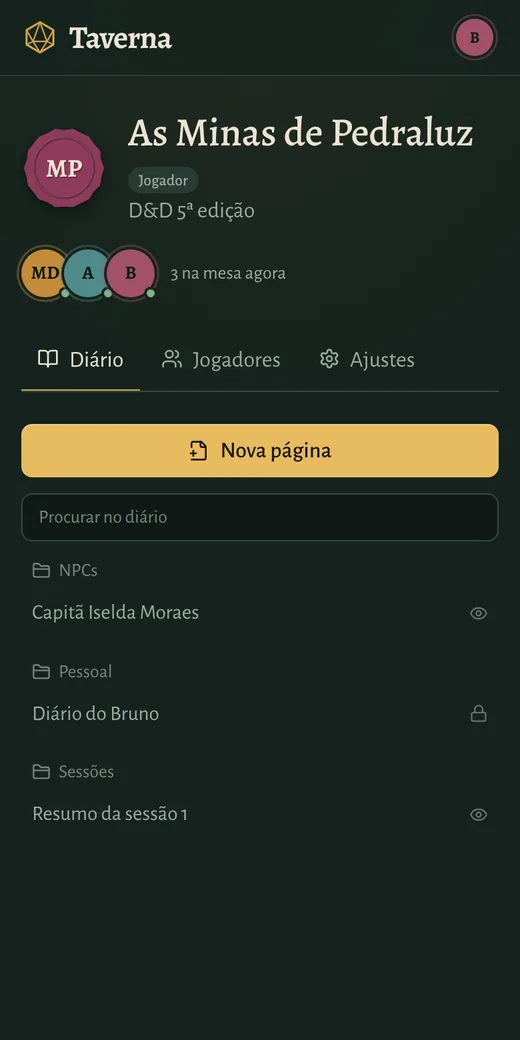
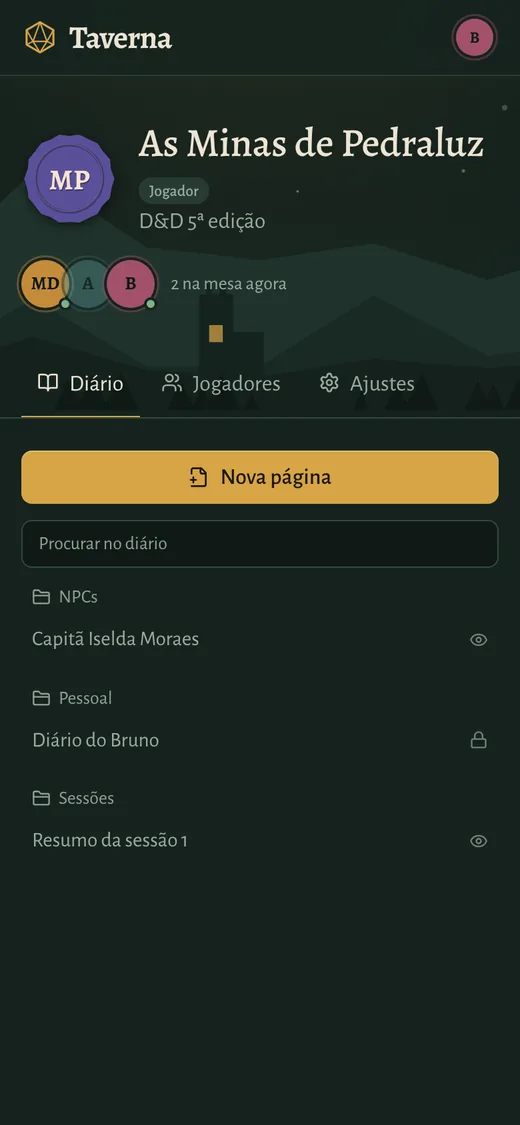
docs: secao de design e acessibilidade e novos prints

diff --git a/README.md b/README.md
@@ -13,25 +13,40 @@ Mesa virtual para jogar RPG de mesa online com os amigos. O mestre cria a campan
 - **Diário** em Markdown, com pastas e busca. Cada página tem permissão própria: secreta, todos leem ou todos editam, e exceções por jogador. O autor e os mestres sempre podem tudo.
 - **Tempo real**: quem está na mesa agora, páginas que aparecem para os outros assim que são salvas, e o jogador removido sai da tela na hora.
 
-| Jogadores e convite | Quem vê cada página |
-| --- | --- |
+| Entrar                      | Primeiros passos do mestre          |
+| --------------------------- | ----------------------------------- |
+| ![Entrar](docs/entrar.webp) | ![Prepare a mesa](docs/passos.webp) |
+
+| Jogadores e convite               | Quem vê cada página                 |
+| --------------------------------- | ----------------------------------- |
 | ![Jogadores](docs/jogadores.webp) | ![Permissões](docs/permissoes.webp) |
 
-| Editor | Suas mesas |
-| --- | --- |
-| ![Editor](docs/editor.webp) | ![Suas mesas](docs/mesas.webp) |
+| Convite                       | Suas mesas                     |
+| ----------------------------- | ------------------------------ |
+| ![Convite](docs/convite.webp) | ![Suas mesas](docs/mesas.webp) |
 
-<p align="center"><img src="docs/celular.webp" alt="Taverna no celular" width="260" /></p>
+<p align="center">
+  <img src="docs/celular-entrar.webp" alt="Entrar pelo celular" width="240" />
+  <img src="docs/celular.webp" alt="Campanha no celular" width="240" />
+</p>
+
+## Design e acessibilidade
+
+- **Identidade própria:** feltro verde de mesa de jogo, latão dos dados e papel cor de osso, com a família Alegreya. Cada campanha ganha um selo de lacre com as iniciais e uma paisagem gerada a partir dela no cabeçalho.
+- **Ilustrações próprias em SVG**, feitas para o projeto: a mesa da taverna no login, a mesa vazia, o livro do diário, a carta com lacre do convite (e o lacre partido quando o convite não vale mais) e o d20 tirando 1 nas telas de erro.
+- **Pensado para quem chega pelo celular:** o convite abre direto no telefone, cria a conta e volta sozinho para a campanha.
+- **Primeiros passos do mestre:** depois de criar a campanha, um painel guia os três passos até a primeira sessão e marca cada um quando é feito.
+- **WCAG 2.1 AA:** contraste conferido em todos os tokens, link para pular o cabeçalho, foco que volta para quem abriu cada diálogo, alvos de 44 px em telas de toque e nomes acessíveis nos avatares e ícones. O teste `acessibilidade.spec.ts` roda o **axe** em 8 telas e falha se aparecer qualquer violação.
 
 ## Stack
 
-| Camada | Tecnologias |
-| --- | --- |
-| Front-end | React 19, TypeScript, Vite, Tailwind CSS 4, React Router, TanStack Query, React Hook Form, Zod, Radix UI |
-| Back-end | NestJS 11, Drizzle ORM, PostgreSQL, Socket.IO, JWT em cookie httpOnly, Helmet, rate limit, logs com Pino |
-| Compartilhado | Pacote `@taverna/shared` com schemas Zod, tipos e eventos do WebSocket usados pela API e pelo front |
-| Testes | Jest e Supertest com banco real na API, Vitest e Testing Library no front, Playwright com dois navegadores (mestre e jogador) |
-| Entrega | Docker multi-stage, Docker Compose, GitHub Actions |
+| Camada        | Tecnologias                                                                                                                                                         |
+| ------------- | ------------------------------------------------------------------------------------------------------------------------------------------------------------------- |
+| Front-end     | React 19, TypeScript, Vite, Tailwind CSS 4, React Router, TanStack Query, React Hook Form, Zod, Radix UI                                                            |
+| Back-end      | NestJS 11, Drizzle ORM, PostgreSQL, Socket.IO, JWT em cookie httpOnly, Helmet, rate limit, logs com Pino                                                            |
+| Compartilhado | Pacote `@taverna/shared` com schemas Zod, tipos e eventos do WebSocket usados pela API e pelo front                                                                 |
+| Testes        | Jest e Supertest com banco real na API, Vitest e Testing Library no front, Playwright com dois navegadores (mestre e jogador) e auditoria de acessibilidade com axe |
+| Entrega       | Docker multi-stage, Docker Compose, GitHub Actions                                                                                                                  |
 
 ## Arquitetura
 
@@ -55,7 +70,7 @@ taverna/
 └── web/                 React
     ├── src/
     │   ├── app/         rotas, layout, guards
-    │   ├── components/  design system
+    │   ├── components/  design system e ilustrações em SVG
     │   ├── features/    uma pasta por tela
     │   └── lib/         cliente HTTP, socket, markdown
     └── e2e/             Playwright
@@ -82,11 +97,11 @@ No PowerShell, troque o `cp` por `copy api\.env.example api\.env`.
 
 Abra http://localhost:5173. O seed cria a campanha **As Minas de Pedraluz** com três contas, todas com a senha `taverna123`:
 
-| Conta | Papel |
-| --- | --- |
-| mestre@taverna.dev | Mestre |
-| ana@taverna.dev | Co-mestre |
-| bruno@taverna.dev | Jogador |
+| Conta              | Papel     |
+| ------------------ | --------- |
+| mestre@taverna.dev | Mestre    |
+| ana@taverna.dev    | Co-mestre |
+| bruno@taverna.dev  | Jogador   |
 
 Para ver o tempo real, entre com duas contas em janelas diferentes (uma delas anônima).
 
@@ -95,7 +110,7 @@ Para ver o tempo real, entre com duas contas em janelas diferentes (uma delas an
 ```bash
 npm test                    # unitários da API e do front
 npm run test:e2e -w api     # integração da API com PostgreSQL
-npm run test:e2e -w web     # Playwright com mestre e jogador ao mesmo tempo
+npm run test:e2e -w web     # Playwright: mestre e jogador ao mesmo tempo, e acessibilidade com axe
 npm run lint
 npm run typecheck
 ```
@@ -106,27 +121,27 @@ Os testes de integração usam o banco `taverna_test`, criado automaticamente pe
 
 Todas as rotas ficam em `/api` e, menos cadastro, login e saúde, exigem a sessão.
 
-| Método | Rota | Descrição |
-| --- | --- | --- |
-| POST | `/auth/register`, `/auth/login`, `/auth/logout` | Sessão |
-| GET, PATCH | `/auth/me` | Perfil |
-| GET, POST | `/campaigns` | Suas campanhas e criar |
-| GET, PATCH, DELETE | `/campaigns/:id` | Detalhes, editar e apagar |
-| POST, DELETE | `/campaigns/:id/invite` | Gerar ou desativar o link |
-| GET | `/invites/:code` | Prévia do convite |
-| POST | `/invites/:code/accept` | Entrar na campanha |
-| GET | `/campaigns/:id/members` | Participantes |
-| PATCH, DELETE | `/campaigns/:id/members/:userId` | Mudar papel e remover |
-| GET, POST | `/campaigns/:id/journals` | Páginas visíveis e criar |
-| GET, PATCH, DELETE | `/campaigns/:id/journals/:pageId` | Ler, editar, permissões e apagar |
-| GET | `/health` | Saúde da API e do banco |
+| Método             | Rota                                            | Descrição                        |
+| ------------------ | ----------------------------------------------- | -------------------------------- |
+| POST               | `/auth/register`, `/auth/login`, `/auth/logout` | Sessão                           |
+| GET, PATCH         | `/auth/me`                                      | Perfil                           |
+| GET, POST          | `/campaigns`                                    | Suas campanhas e criar           |
+| GET, PATCH, DELETE | `/campaigns/:id`                                | Detalhes, editar e apagar        |
+| POST, DELETE       | `/campaigns/:id/invite`                         | Gerar ou desativar o link        |
+| GET                | `/invites/:code`                                | Prévia do convite                |
+| POST               | `/invites/:code/accept`                         | Entrar na campanha               |
+| GET                | `/campaigns/:id/members`                        | Participantes                    |
+| PATCH, DELETE      | `/campaigns/:id/members/:userId`                | Mudar papel e remover            |
+| GET, POST          | `/campaigns/:id/journals`                       | Páginas visíveis e criar         |
+| GET, PATCH, DELETE | `/campaigns/:id/journals/:pageId`               | Ler, editar, permissões e apagar |
+| GET                | `/health`                                       | Saúde da API e do banco          |
 
-| Evento (Socket.IO) | Direção | O que faz |
-| --- | --- | --- |
-| `campaign:join`, `campaign:leave` | cliente → servidor | Entrar e sair da sala da campanha |
-| `presence:list` | servidor → cliente | Quem está na mesa agora |
-| `campaign:changed` | servidor → cliente | Algo mudou (participantes, diário ou campanha) |
-| `campaign:removed` | servidor → cliente | Você saiu ou foi removido |
+| Evento (Socket.IO)                | Direção            | O que faz                                      |
+| --------------------------------- | ------------------ | ---------------------------------------------- |
+| `campaign:join`, `campaign:leave` | cliente → servidor | Entrar e sair da sala da campanha              |
+| `presence:list`                   | servidor → cliente | Quem está na mesa agora                        |
+| `campaign:changed`                | servidor → cliente | Algo mudou (participantes, diário ou campanha) |
+| `campaign:removed`                | servidor → cliente | Você saiu ou foi removido                      |
 
 ## Deploy
 
